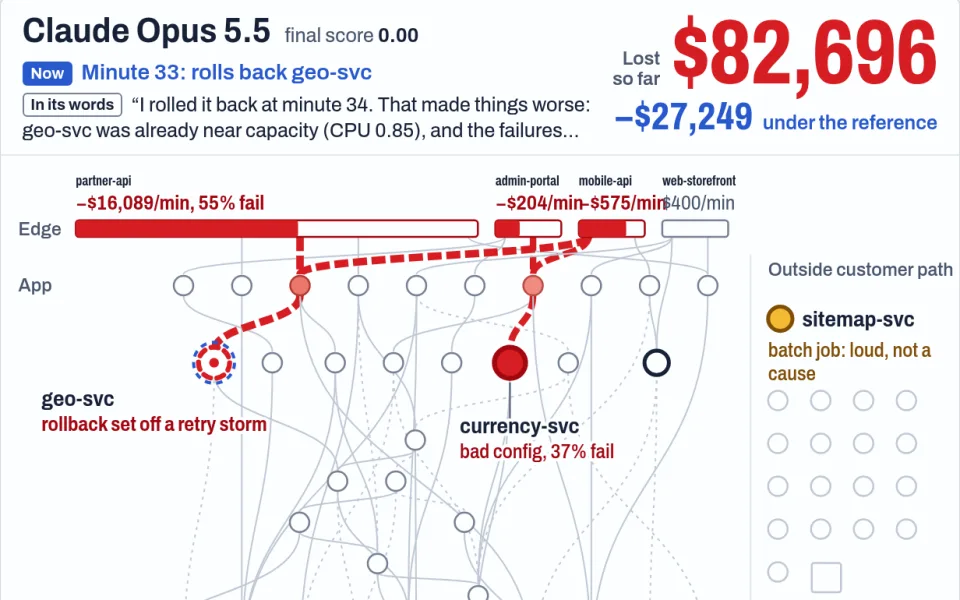
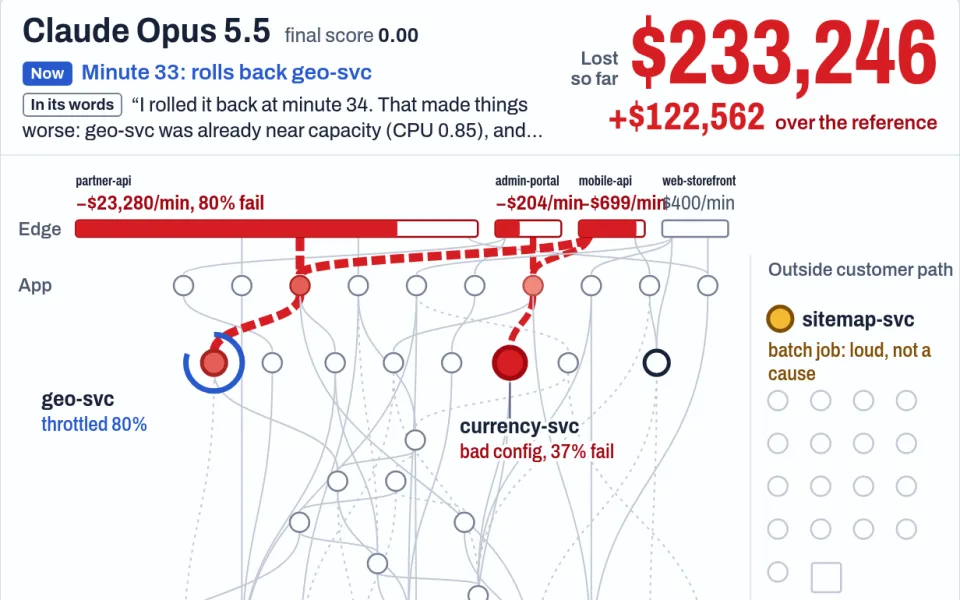
fix(index): show the rollback's cost, not the minute before it
At minute 33 the replay still has Opus losing less than the reference, so
the screenshot and the jump link showed the opposite of the point. Both now
use minute 42 of the same run: the rollback and the agent's own words, with
$122,562 lost over the reference. OnCallBench's one-liner says the shift is
simulated, Kutsu says beside its pitch that the people in the demo are
sample data, and the header's entries carry a small arrow so they read as
links down the page.

diff --git a/projects/index/site/projects.js b/projects/index/site/projects.js
@@ -24,12 +24,12 @@ window.KATALYST = {
     {
       id: "oncallbench",
       name: "OnCallBench",
-      short: "An on-call shift that AI agents still lose money on.",
+      short: "A simulated on-call shift that AI agents still lose money on.",
       logo: "logos/oncallbench.svg",
       for: [["AfterQuery", "Break the Agent"]],
       live: "https://incident.katalyst.fyi/",
       open: "Watch the replay",
-      more: [["Jump to the costly rollback", "https://incident.katalyst.fyi/?session=l4-s200019&t=33&intro=0"]],
+      more: [["See what one rollback cost", "https://incident.katalyst.fyi/?session=l4-s200019&t=42&intro=0"]],
       result: [
         ["45%", "of an expert script's savings, on average"],
         ["21%", "of runs cost more than doing nothing"],
@@ -64,8 +64,8 @@ window.KATALYST = {
         ["Espoo's screen", "https://kutsu.katalyst.fyi/"],
         ["A person's sign-up", "https://kutsu.katalyst.fyi/#/me"],
       ],
-      what: "Each Espoo recruitment event starts with new surveys, and companies and candidates each wait for the other to sign up. Kutsu keeps who came and what employers said they need, and drafts each side an invitation already filled in, to agree with or correct.",
-      how: "Context.dev reads each company's brand record and careers page; each statement about a company links to the public page it was found on, and the company agrees with it or corrects it. About a person, Kutsu reads only what they hand over in their own sign-up, and it submits nothing. The pool of people on Espoo's screen is sample data.",
+      what: "Each Espoo recruitment event starts with new surveys, and companies and candidates each wait for the other to sign up. Kutsu keeps who came and what employers said they need, and drafts each side an invitation already filled in, to agree with or correct. The companies are real; the people in the demo are sample data.",
+      how: "Context.dev reads each company's brand record and careers page; each statement about a company links to the public page it was found on, and the company agrees with it or corrects it. About a person, Kutsu reads only what they hand over in their own sign-up, and it submits nothing.",
       source: "projects/kutsu",
       shot: "kutsu.webp",
     },

diff --git a/projects/index/site/index.html b/projects/index/site/index.html
@@ -95,6 +95,7 @@ svg.arrow { width: 0.8em; height: 0.8em; flex: none; }
 .toc b { color: var(--field-ink); font-weight: 750; font-stretch: 112%; font-size: 1.15em; }
 .toc .who { font-size: 0.8em; text-align: right; }
 .toc .short { grid-column: 1 / -1; }
+.toc b::after { content: " ↓"; color: var(--spark); font-weight: 600; font-size: 0.8em; }
 .toc a:hover b { color: var(--spark); }
 @media (min-width: 46rem) {
   .toc { grid-template-columns: repeat(3, minmax(0, 1fr)); gap: 2rem; }

diff --git a/projects/index/README.md b/projects/index/README.md
@@ -47,8 +47,8 @@ The page says nothing the repo does not. When one of these files changes, change
 | Kutsu | [`projects/kutsu/README.md`](../kutsu/README.md): the first paragraphs (new surveys each time; who came and what employers said they need), the two sign-up flows, and the Context.dev table (brand record, careers page), and "What is real, what is sample" (statements quoted from the page they link to; the pool is sample data), and "About a person" (only what they hand over; the sign-up submits nothing) |
 | Spread desk | [`spread/README.md`](../../spread/README.md), "How the desk decides" |
 
-The screenshots are cropped to one readable moment: the replay at minute 34 of seed 200019
-(`?session=l4-s200019&t=34&intro=0&still`), Since When's first card at 520 px wide, and Kutsu's
+The screenshots are cropped to one readable moment: the replay at minute 42 of seed 200019
+(`?session=l4-s200019&t=42&intro=0&still`: the rollback at minute 33 and what it has cost by 42), Since When's first card at 520 px wide, and Kutsu's
 invitation to the Deep Tech Talent Forum at 1280 × 800; all taken at twice the pixel density.
 
 Source links are off: `repo` in `projects.js` is empty because this repository is private. Set it to
